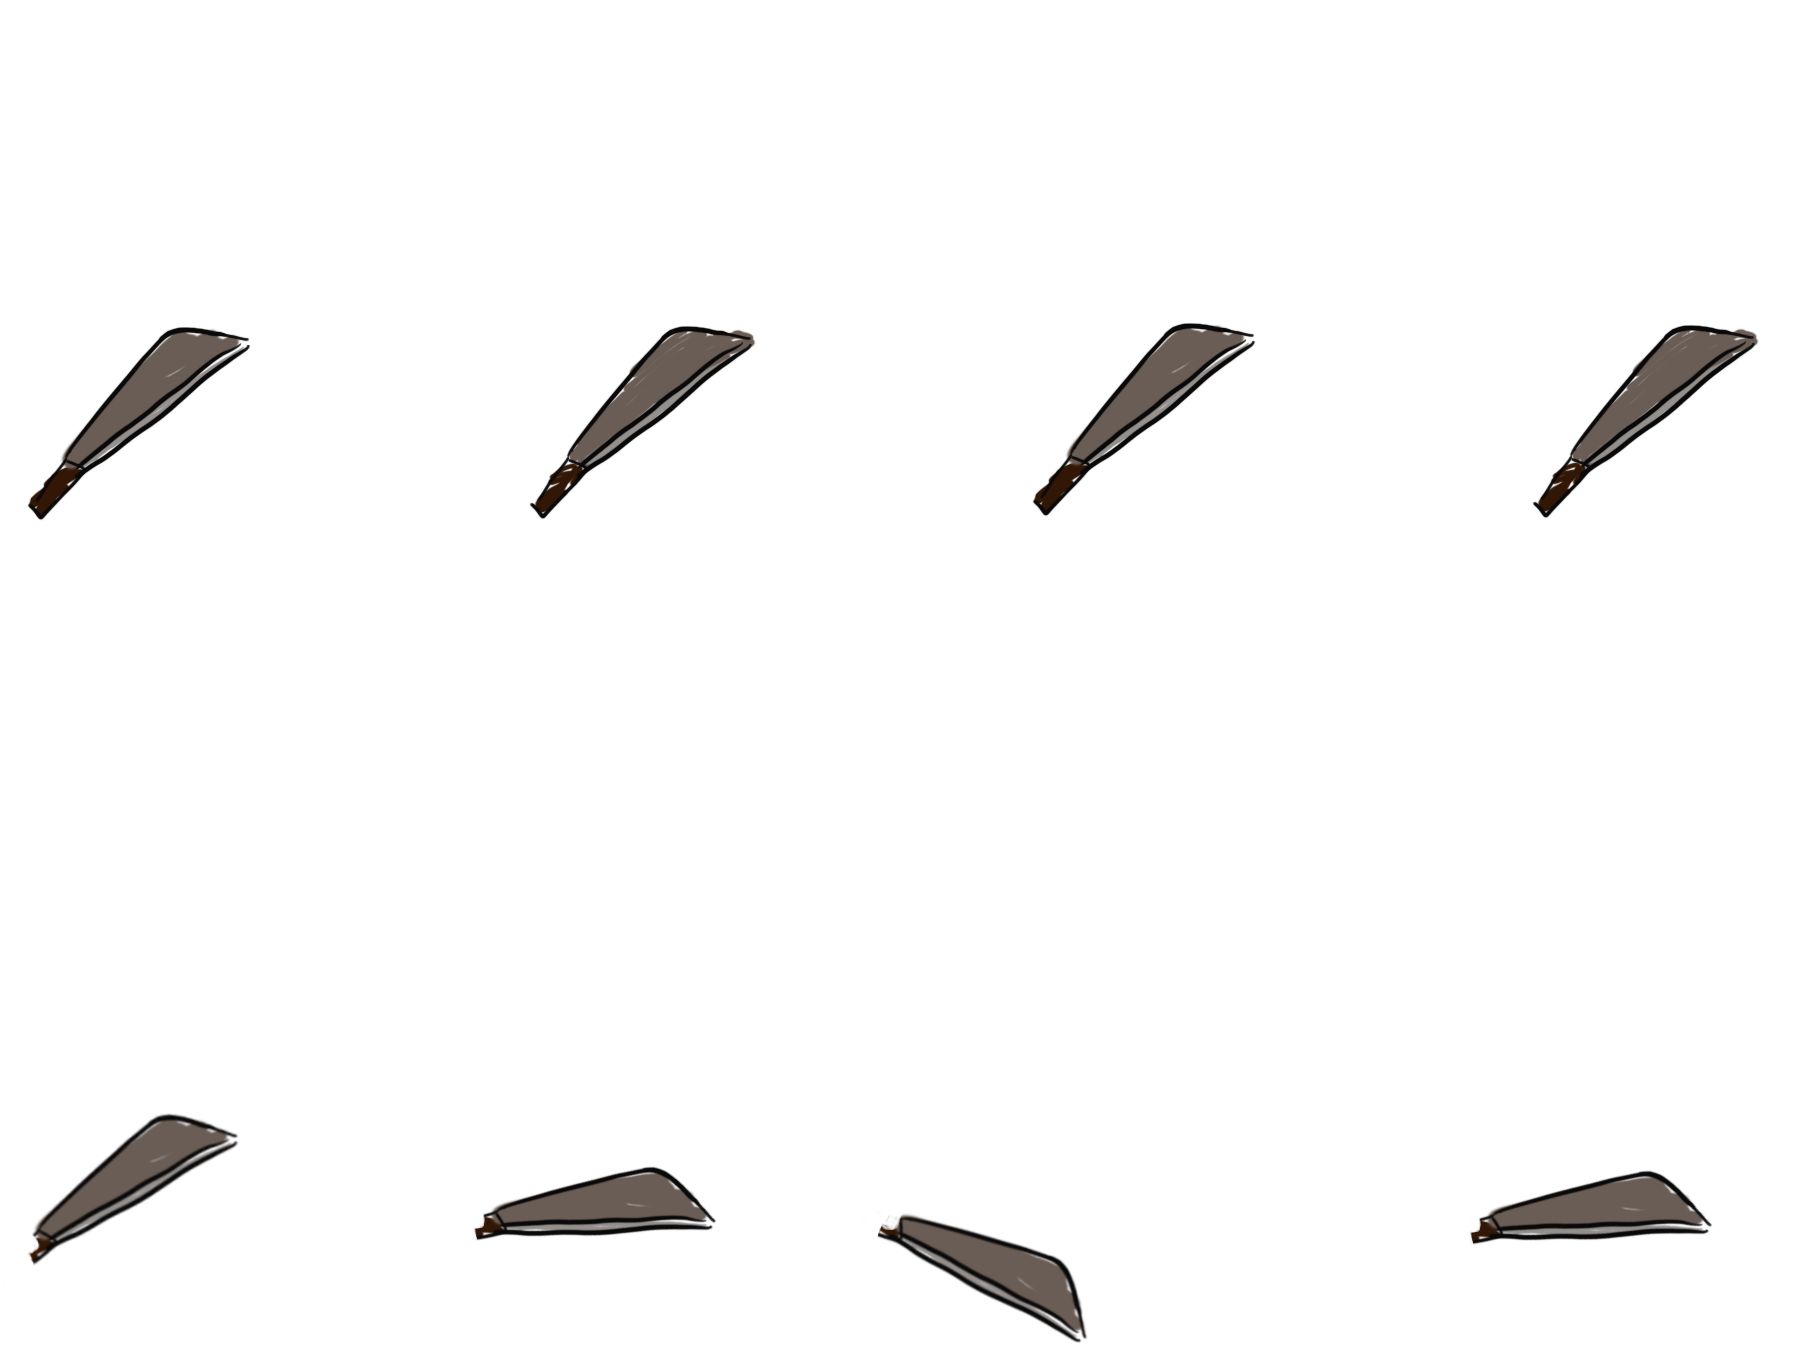
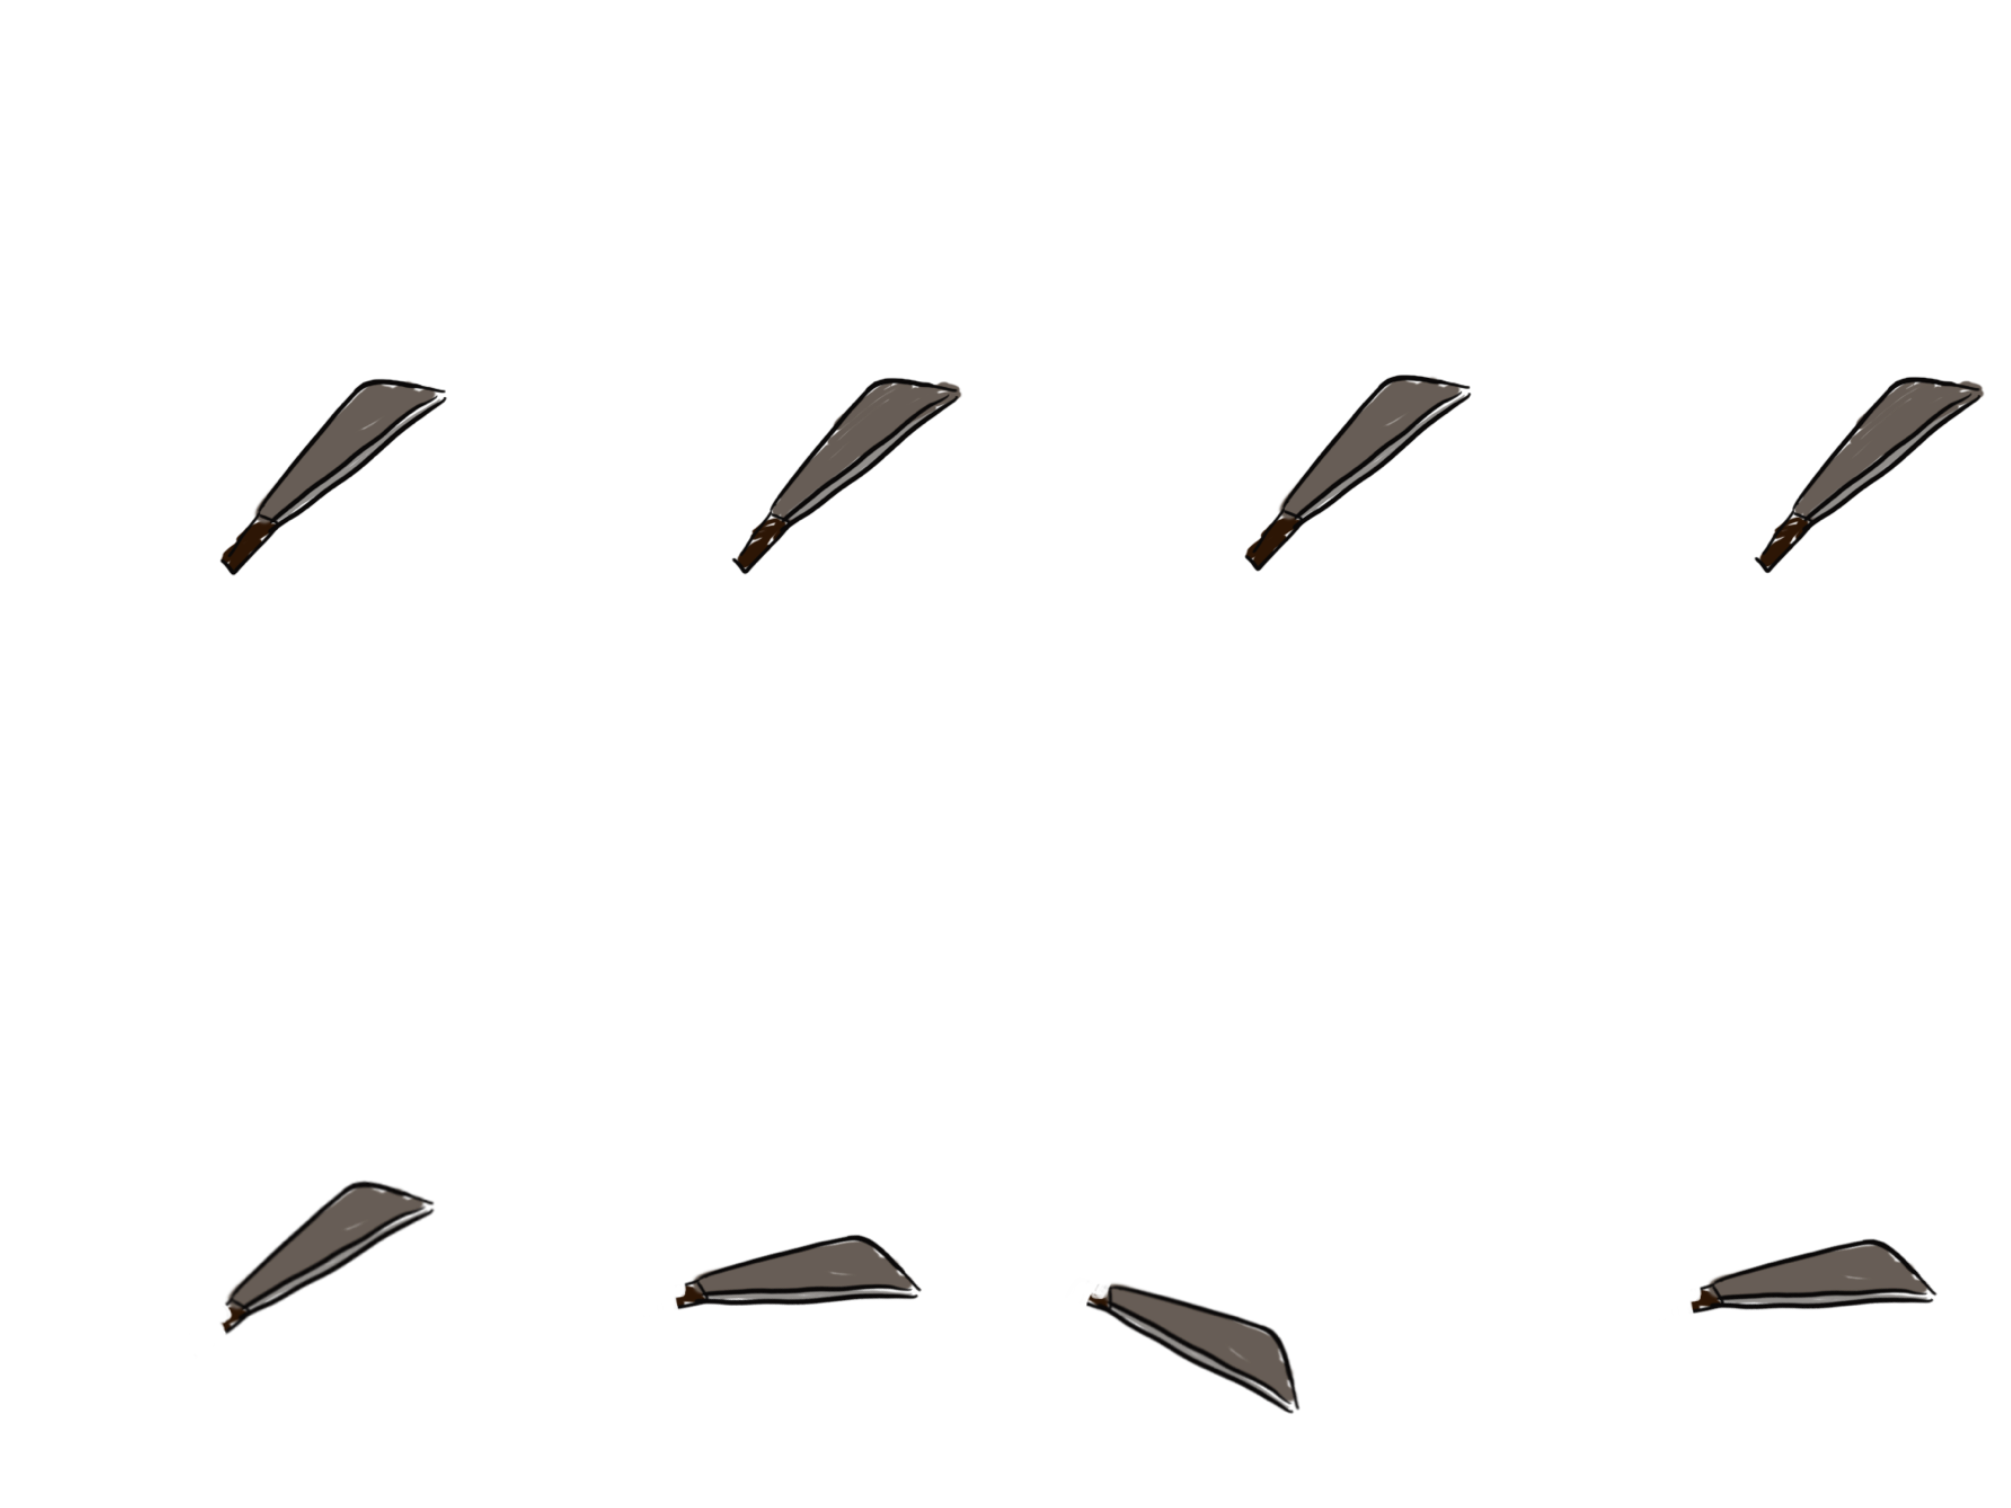
1

diff --git a/Game/Sword.cpp b/Game/Sword.cpp
@@ -1,0 +1,60 @@
+#include "Sword.h"
+
+Sword::Sword(sf::Texture* texture, sf::Vector2u imageCount, float switchTime, float speed) :
+	animation(texture, imageCount, switchTime)
+{
+	this->speed = speed;
+	row = 0;
+	faceRight = true;
+
+	sword.setSize(sf::Vector2f(300.0f, 425.0f));
+	sword.setOrigin(sword.getSize().x / 2.0f, 0);
+	sword.setPosition(1920.0f, 575.0f);
+	sword.setTexture(texture);
+}
+
+Sword::~Sword()
+{
+}
+
+void Sword::Update(float deltaTime)
+{
+	sf::Vector2f movement(0.0f, 0.0f);
+
+	if (sf::Keyboard::isKeyPressed(sf::Keyboard::A))
+		movement.x -= speed * deltaTime;
+	if (sf::Keyboard::isKeyPressed(sf::Keyboard::D))
+		movement.x += speed * deltaTime;
+
+	if (movement.x == 0.0f)
+	{
+		row = 0;
+	}
+	else
+	{
+		row = 1;
+
+		if (movement.x > 0.0f)
+			faceRight = true;
+		else
+			faceRight = false;
+	}
+
+	animation.Update(row, deltaTime, faceRight);
+	sword.setTextureRect(animation.uvRect);
+	sword.move(movement);
+
+	//Collision screen
+	//Left collossion
+	if (sword.getPosition().x < 0.f)
+		sword.setPosition(0.f, sword.getPosition().y);
+	//Right collosion
+	if (sword.getPosition().x + sword.getGlobalBounds().width > 3840.0f)
+		sword.setPosition(3840.0f - sword.getGlobalBounds().width, sword.getPosition().y);
+}
+
+void Sword::Draw(sf::RenderWindow& window)
+{
+	if (sf::Keyboard::isKeyPressed(sf::Keyboard::Q))
+		window.draw(sword);
+}

diff --git a/Game/Source.cpp b/Game/Source.cpp
@@ -13,7 +13,7 @@ int main()
 	//View
 	sf::View view(sf::Vector2f(0.0f, 0.0f), sf::Vector2f(1920.0f, 1080.0f));
 	
-	//grandpa
+	//Grandpa
 	sf::Texture playerTexture;
 	playerTexture.loadFromFile("img/grandpa2.png");
 
@@ -22,13 +22,19 @@ int main()
 	float deltaTime = 0.0f;
 	sf::Clock clock;
 
-	//knife
+	//Knife
 	sf::Texture knifeTexture;
-	knifeTexture.loadFromFile("img/knife.png");
+	knifeTexture.loadFromFile("img/knife2.png");
 
 	Knife knife(&knifeTexture, sf::Vector2u(4, 2), 0.3f, 500.0f);
 
-	//background
+	//Sword
+	sf::Texture swordTexture;
+	swordTexture.loadFromFile("img/sword.png");
+
+	Sword sword(&swordTexture, sf::Vector2u(4, 2), 0.3f, 500.0f);
+
+	//Background
 	sf::RectangleShape background(sf::Vector2f(5760.0f, 1080.0f));
 	background.setPosition(-960.0f, 40.0f);
 	sf::Texture backgroundTexture;
@@ -71,18 +77,21 @@ int main()
 				window.close();
 				break;
 			}
+
 		}
 
 		player.Update(deltaTime);
 		knife.Update(deltaTime);
+		sword.Update(deltaTime);
 		view.setCenter(player.GetPosition());
 
 		//Render
 		window.clear();
 		window.setView(view);
 		window.draw(background);
-		player.Draw(window);
-		knife.Draw(window);
+		sword.Draw(window);
+		player.Draw(window); 
+		knife.Draw(window);  
 		window.display();
 	}
 

diff --git a/Game/Sword.h b/Game/Sword.h
@@ -1,26 +1,26 @@
 #pragma once
 #include<SFML/Graphics.hpp>
 #include"Animation.h"
-#include"Knife.h"
-#include"Sword.h"
 
-class Player
+
+class Sword
 {
 public:
-	Player(sf::Texture* texture, sf::Vector2u imageCount, float switchTime,float speed);
-	~Player();
+	Sword(sf::Texture* texture, sf::Vector2u imageCount, float switchTime, float speed);
+	~Sword();
 
 	void Update(float deltaTime);
 	void Draw(sf::RenderWindow& window);
 
-	sf::Vector2f GetPosition() { return body.getPosition(); }
+	sf::Vector2f GetPosition() { return sword.getPosition(); }
 
 
 private:
-	sf::RectangleShape body;
+	sf::RectangleShape sword;
 	Animation animation;
 	unsigned int row;
 	float speed;
 	bool faceRight;
 };
+
 

diff --git a/Game/Knife.cpp b/Game/Knife.cpp
@@ -57,7 +57,8 @@ void Knife::Update(float deltaTime)
 
 void Knife::Draw(sf::RenderWindow& window)
 {
-	window.draw(knife);
+	if (sf::Keyboard::isKeyPressed(sf::Keyboard::E))
+		window.draw(knife);
 }
 
-
+     
